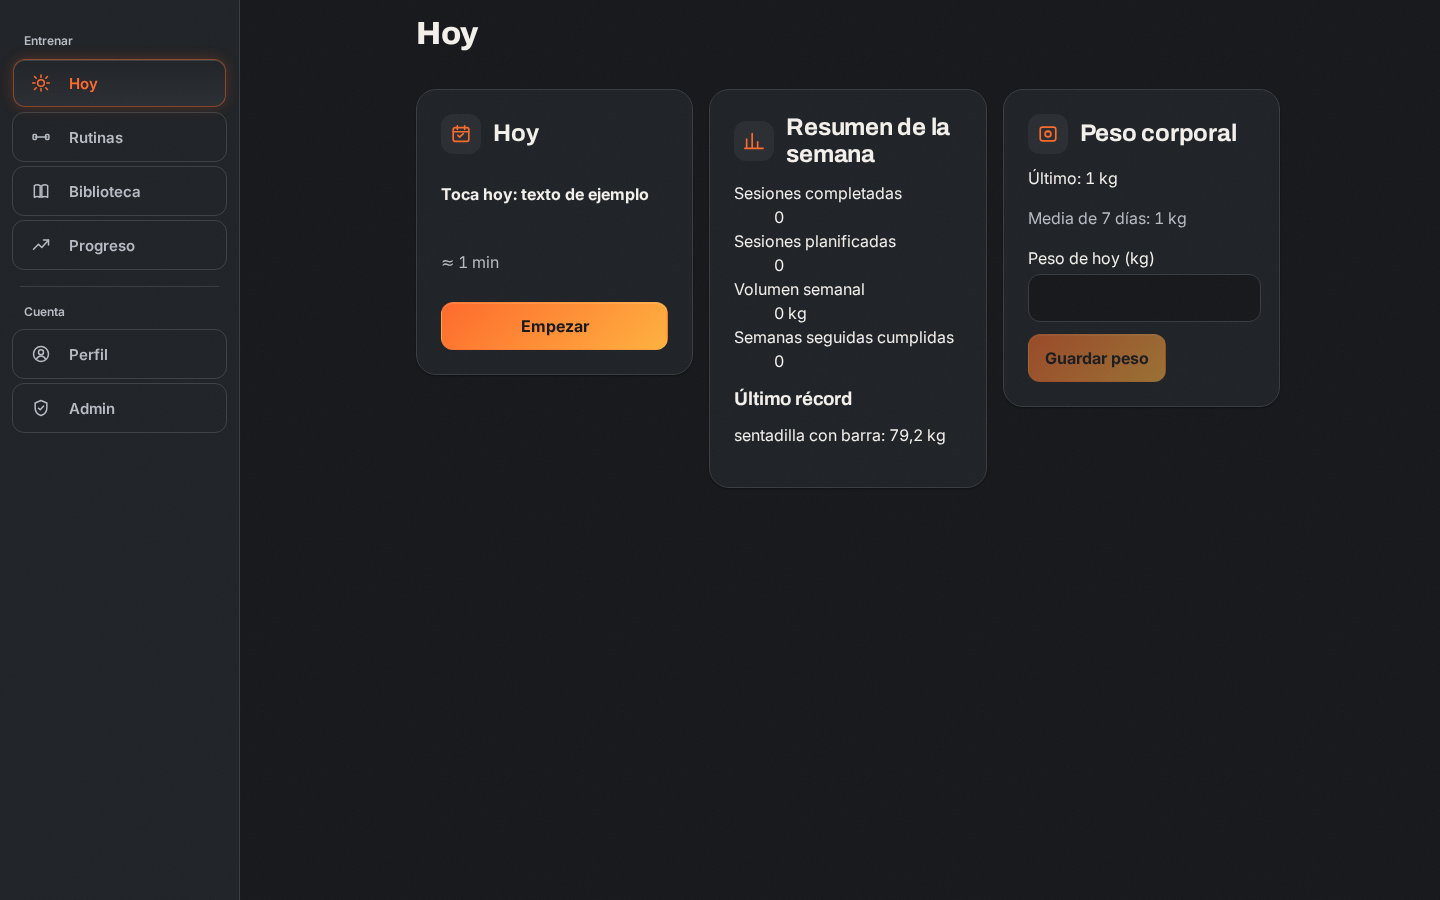
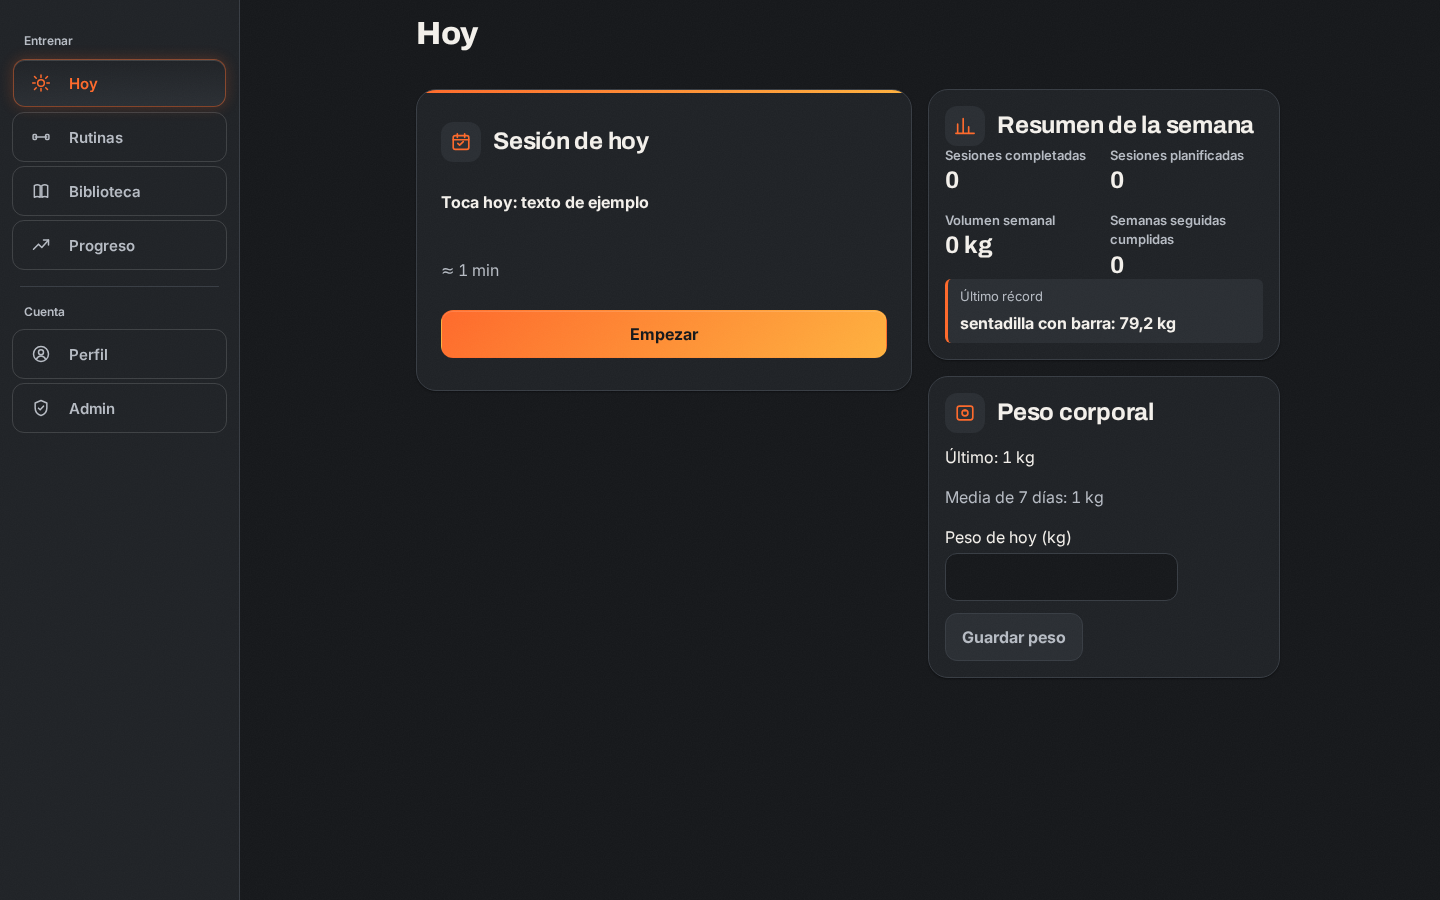
docs(frontend-ui): refresh Hoy screenshots and add polish handoff
Recapture hoy-desktop.png/hoy-mobile.png against mocked data now that
the stat grid, disabled button, duplicate title, and card hierarchy
fixes are in. Add docs/handoffs/f5-hoy-polish.md describing the four
fixes, the design decisions behind them, and verification results.

Claude-Session: https://claude.ai/code/session_016UkH81CUPtFeFobjAqoEnV

diff --git a/docs/handoffs/f5-hoy-polish.md b/docs/handoffs/f5-hoy-polish.md
@@ -1,0 +1,165 @@
+# Handoff — f5/hoy-polish · frontend-ui
+
+## Resumen
+El orquestador revisó `hoy-desktop.png`/`hoy-mobile.png` de `f5/design-system` y encontró cuatro
+defectos concretos en Hoy (primera pantalla tras iniciar sesión). Los cuatro están corregidos:
+
+1. **Estadísticas de la semana con estilo `<dl>` por defecto** («Sesiones completadas» y luego «0»
+   sangrado ~40 px en la línea siguiente, por el `margin-inline-start: 40px` que el navegador aplica
+   a `<dd>`). Ahora es una cuadrícula 2×2 (también en móvil): valor grande en fuente de titulares
+   con números tabulares (`--nums-tabular`) y peso 700, etiqueta pequeña y atenuada encima. El
+   marcado sigue siendo `<dl>`/`<dt>`/`<dd>` — solo cambió el estilo. «Último récord» dejó de ser un
+   `<h3>` suelto: ahora es una línea propia, pequeña y con un filo brasa a la izquierda (etiqueta
+   atenuada + «sentadilla con barra: 79,2 kg» en negrita).
+2. **Botón primario deshabilitado con aspecto sucio**: «Guardar peso» con opacidad 0.55 sobre el
+   degradado brasa daba una mancha parda. Ahora `.primary:disabled` (en `components/ui/ui.module.css`
+   y `features/shared/ui.module.css`) es una superficie plana `--color-surface-2`, texto
+   `--color-text-muted`, borde `--color-border`, sin degradado, sin resplandor, sin barrido de
+   brillo, `cursor: not-allowed`. Contraste del texto verificado (ver «Decisiones»).
+3. **Título duplicado**: el `<h1>` de la pantalla y el `<h2>` de la primera tarjeta decían los dos
+   «Hoy». La tarjeta ahora se llama «Sesión de hoy» / «Today's session» (clave nueva
+   `todayB.sessionCardTitle`).
+4. **Las tres tarjetas eran indistinguibles** (mismo tamaño/radio/borde/sombra — el «kit de tarjetas
+   SaaS genérico» que señala el skill de diseño). La tarjeta de sesión (CTA primaria «Empezar»/
+   «Continuar», o el estado vacío «crea una rutina») es ahora la protagonista: columna más ancha en
+   escritorio (`minmax(0,1fr)` vs `minmax(16rem,22rem)`, ≥1024 px; una sola columna apilada en
+   móvil, la sesión siempre primero), relleno mayor (`--space-6`/`--space-5` vs `--space-4`) y un
+   filo brasa de 3 px en el borde superior (`--gradient-accent`, el mismo degradado del propio botón
+   «Empezar»). Resumen semanal y peso corporal quedan con relleno reducido, más discretas.
+
+Plan de diseño cargado con el skill `frontend-design` antes de tocar código. Autocrítica relevante:
+la primera versión de la tarjeta héroe combinaba el filo superior con un resplandor radial ember de
+fondo (`radial-gradient` con `--glow-accent-soft`); al repasar la lista de calibración del propio
+skill («gradient washes as decoration» es justo el antipatrón #4 del kit SaaS que esta tarea pedía
+corregir) lo quité y dejé solo el filo — un único gesto deliberado, no dos acumulados.
+
+## Ficheros tocados
+- `frontend/src/features/today/TodayScreen.tsx` — reestructura la cuadrícula de tarjetas (héroe +
+  columna secundaria con resumen semanal y peso corporal agrupados), aplica `Today.module.css` a las
+  tres tarjetas, reescribe el marcado de estadísticas y de «Último récord», renombra el título de la
+  tarjeta de sesión. La coreografía `Reveal` (variantes, `delay`, agrupación de etapas) no cambió.
+- `frontend/src/features/today/Today.module.css` (nuevo) — `.grid`/`.secondaryStack` (layout héroe +
+  columna angosta), `section.hero`/`section.secondary` (tamaño y calidez, ver «Decisiones» sobre por
+  qué usan selector de etiqueta), `.statGrid`/`.stat`/`.statLabel`/`.statValue` (cuadrícula de
+  estadísticas), `.lastRecord`/`.lastRecordLabel`/`.lastRecordValue` (línea de récord).
+- `frontend/src/components/ui/ui.module.css` — `.primary:disabled` plano (botón base del sistema de
+  diseño; no se usa directamente en Hoy, pero la tarea pedía corregirlo también aquí por
+  consistencia con `features/shared`).
+- `frontend/src/features/shared/ui.module.css` — mismo `.primary:disabled` para `.btn` (el que sí
+  usa Hoy en «Empezar»/«Continuar»/«Guardar peso»).
+- `frontend/src/features/session/strings.ts` — clave `todayB.sessionCardTitle` (es: «Sesión de hoy»,
+  en: «Today's session»). Es donde ya vivía todo el espacio de nombres `todayB` (incluido
+  `weekSummary`, `lastRecord`, etc.), registrado vía `registerBundle` e importado por
+  `TodayScreen.tsx` — no en `i18n/resources.ts`, que solo cubre la parte A.
+- `frontend/tests/design-tokens.test.ts` — añade el par `color-text-muted`/`color-surface-2` (oscuro
+  y claro) a las tablas de contraste AA existentes: es el texto del botón primario deshabilitado.
+- `docs/screenshots/f5/design-system/hoy-desktop.png` y `hoy-mobile.png` — recapturados.
+
+No se tocó `frontend/src/features/auth/*` ni `frontend/src/components/icons.tsx` (otro agente
+trabaja ahí en paralelo), tal como pedía la tarea.
+
+## Decisiones
+- **`section.hero` / `section.secondary` con selector de etiqueta, no solo de clase.** Ambas
+  necesitan pisar `padding`/`background` de `.card` (`shared/ui.module.css`), que también se aplica
+  en el mismo elemento (`className={cx(shared.card, today.hero)}`) para heredar borde/radio/sombra y,
+  sobre todo, las reglas de espaciado entre hijos (`.card > * + *`, `.card h2,h3{margin-bottom:0}`)
+  que las tres tarjetas siguen necesitando. Una clase de un solo nivel (`.hero`) tiene la misma
+  especificidad que `.card` (0,1,0): cuál gana dependería del orden en que Vite concatene los dos
+  módulos CSS en el bundle final, algo que no quise dejar al azar. Añadir el selector de etiqueta
+  (`section.hero`, especificidad 0,1,1) gana de forma determinista sin tocar `shared/ui.module.css`
+  ni duplicar sus reglas de espaciado.
+- **Filo superior en vez de resplandor + filo.** Ver «Resumen» — un resplandor radial detrás del
+  contenido de la tarjeta es literalmente el antipatrón «gradient washes as decoration» que el skill
+  de diseño señala. El filo de 3 px reutiliza `--gradient-accent` tal cual (el mismo degradado del
+  botón «Empezar» que la tarjeta contiene) en vez de inventar un ángulo o color nuevo.
+- **Sin `border-color` cálido en la tarjeta héroe.** Consideré teñir también el borde completo con
+  `color-mix(in srgb, var(--color-accent) X%, var(--color-border))` (como ya hacen `.badgeAccent` /
+  `.badgeSuccess` / `.badgeError`) para reforzar el filo superior. Lo descarté: el filo ya es el gesto
+  cálido deliberado de la tarjeta; teñir además todo el borde habría sido un segundo accesorio sobre
+  el mismo elemento sin necesidad real.
+- **Sin `height`/`align-items: stretch` forzado entre la tarjeta héroe y la columna secundaria.** En
+  escritorio, la tarjeta de sesión resulta más corta que la pila resumen+peso (menos contenido) y
+  termina antes verticalmente — es intencional, no un bug: forzar que el héroe estire su altura para
+  igualar la columna habría significado o bien una tarjeta con mucho hueco vacío dentro (si el
+  contenido no crece con ella) o volver a depender de un relleno/fondo decorativo para rellenar ese
+  hueco (el mismo antipatrón que se evitó arriba). El ancho —no el alto— es lo que pide la tarea
+  («spanning more of the row»), y ya es visible en las dos capturas.
+- **`.primary:disabled` en ambas hojas de botones, aunque Hoy solo usa la de `features/shared`.** La
+  tarea lo pedía explícitamente («both `components/ui` Button `.primary:disabled` and the shared
+  `.btn.primary:disabled`») para que el arreglo de contraste/mancha parda sea consistente en todo el
+  sistema de diseño, no solo donde hoy se nota. Mismo bloque de reglas en los dos ficheros
+  (superficie 2 plana, texto atenuado, borde neutro, sin sombra/brillo), colocado justo después de la
+  regla `:disabled` genérica existente en cada hoja para ganar por orden de aparición sin necesitar
+  más especificidad (misma especificidad que `.button:disabled`/`.btn:disabled`: 0,2,0 en los dos
+  casos).
+- **Contraste: un único par nuevo, no una campaña de re-verificación.** El único texto/fondo
+  genuinamente nuevo que introduce esta tarea es `--color-text-muted` sobre `--color-surface-2` (el
+  botón deshabilitado). Lo añadí a `tests/design-tokens.test.ts`: 7.17:1 en oscuro, 5.90:1 en claro
+  (ambos ≥ 4.5:1 AA texto normal, calculado con la misma fórmula del test antes de tocar código). Las
+  etiquetas de la cuadrícula de estadísticas también usan `--color-text-muted`, pero sobre
+  `--color-surface-1` (el fondo de la propia tarjeta) — es el mismo patrón `.muted` que ya usa el
+  resto de la pantalla (p. ej. la media de 7 días en «Peso corporal») sin par de test dedicado; no
+  añadí uno nuevo para no duplicar cobertura de un patrón ya extendido y no señalado por la tarea.
+- **Clave i18n en `features/session/strings.ts`, no en `i18n/resources.ts`.** El namespace `todayB`
+  completo (incluidas todas las cadenas que ya usaba Hoy: `weekSummary`, `lastRecord`,
+  `bodyWeightSave`…) ya vivía ahí antes de esta tarea, registrado en tiempo de ejecución vía
+  `registerBundle`. `sessionCardTitle` sigue ese mismo patrón por consistencia — está dentro de «los
+  recursos i18n del título renombrado» que permitían los límites de escritura, aunque el fichero esté
+  en la carpeta `session/`.
+
+## Cómo verificar
+```bash
+cd frontend
+npm ci                     # node_modules no estaba instalado en este worktree
+npx tsc --noEmit            # limpio
+npm run lint                 # 0 avisos
+npm run test -- --run        # 206/206 en verde; cobertura de ramas 85.18 % (>= umbral 85 %)
+npm run build                  # bundle principal 585.77 kB / 189.67 kB gzip (< 500 KB, ADR 0013)
+```
+Visualmente (capturas ya reemplazadas en `docs/screenshots/f5/design-system/hoy-desktop.png` y
+`hoy-mobile.png`, tomadas contra `VITE_USE_MSW=1 npx vite --host 127.0.0.1 --port 5176` con un script
+Playwright desechable, ya borrado): cuadrícula de estadísticas 2×2, «Último récord» como línea propia
+con filo brasa, «Guardar peso» deshabilitado plano y atenuado (sin mancha parda), título de tarjeta
+«Sesión de hoy» distinto del `<h1>` «Hoy», tarjeta de sesión más ancha/con filo superior vs. resumen
+semanal y peso corporal más discretos. En móvil, la captura se toma redimensionando el viewport a la
+altura real del contenido (no con `fullPage: true`): Chromium expande el viewport para las capturas
+de página completa, lo que reposiciona la barra de navegación inferior (`position: fixed`) respecto a
+esa altura expandida en vez de a los 390×844 reales, y queda flotando a mitad de la tarjeta de peso
+corporal — con el viewport ya del tamaño exacto del contenido no hace falta expandir nada y la barra
+queda anclada al pie, como en un dispositivo real.
+
+## Métricas
+- `npm run build`: `dist/assets/index-*.js` → 585.77 kB sin comprimir / **189.67 kB gzip** (límite
+  500 KB gzip, ADR 0013). Solo +0.29 KB gzip sobre el punto de partida de `f5/design-system`
+  (189.38 kB) — el cambio es casi todo CSS (un fichero de módulo nuevo, pequeño) y unas pocas líneas
+  de JSX reordenadas, sin lógica ni dependencias nuevas.
+- `npm run test -- --run`: **206/206** tests en verde, 29/29 ficheros (sin tests nuevos: los cuatro
+  arreglos son de estilo/marcado sobre rutas ya cubiertas por `tests/routes/TodayRoute.test.tsx`, que
+  sigue en verde sin modificar).
+- Cobertura: ramas **85.18 %** (≥ 85 %, idéntica al punto de partida de `f5/design-system` — esta
+  tarea no cambia ninguna rama de lógica, solo estilo/marcado), sentencias 93.34 %, funciones
+  91.44 %, líneas 95.29 %.
+
+## Riesgos/pendientes
+- **`.empty` (estado «sin programa activo») dentro de la tarjeta héroe agranda el relleno vertical
+  dos veces** (el propio `padding: var(--space-6) var(--space-4)` de `.empty`, más el nuevo
+  `padding: var(--space-6) var(--space-5)` de `section.hero`). No se ve en las capturas actuales
+  (el mock de `GET /sessions/next` usado por MSW devuelve `status: "scheduled"`, no
+  `no_active_program`), así que no se ha podido verificar visualmente ese estado concreto. El
+  relleno combinado no rompe nada (sigue centrado, sin desbordar), pero puede leerse como
+  demasiado aire si alguien lo revisa con ese estado concreto activado a mano.
+- **Ninguna prueba nueva.** Los cuatro arreglos son de estilo/marcado (clases CSS, cambio de
+  etiqueta de calor/heading, reordenación de JSX) sobre comportamiento ya cubierto por
+  `tests/routes/TodayRoute.test.tsx` (5 casos, todos en verde sin tocar el fichero) — no se ha
+  añadido cobertura porque no hay rama de lógica nueva que cubrir, siguiendo la preferencia de
+  pruebas acotadas en vez de una campaña.
+- `node_modules` no estaba instalado en este worktree; se ejecutó `npm ci` antes de verificar (no
+  versionado, no aparece en el diff).
+
+## Peticiones a otros agentes
+Ninguna petición bloqueante.
+- El agente que rediseña `features/auth/*` en paralelo no se ve afectado: no se tocó esa carpeta ni
+  `components/icons.tsx`.
+- `.primary:disabled` ahora existe en `components/ui/ui.module.css` (el `Button` compartido) además
+  de `features/shared/ui.module.css`; cualquier pantalla que use un `<Button variant="primary" disabled>`
+  fuera de Hoy hereda automáticamente el mismo tratamiento plano sin cambios adicionales.
